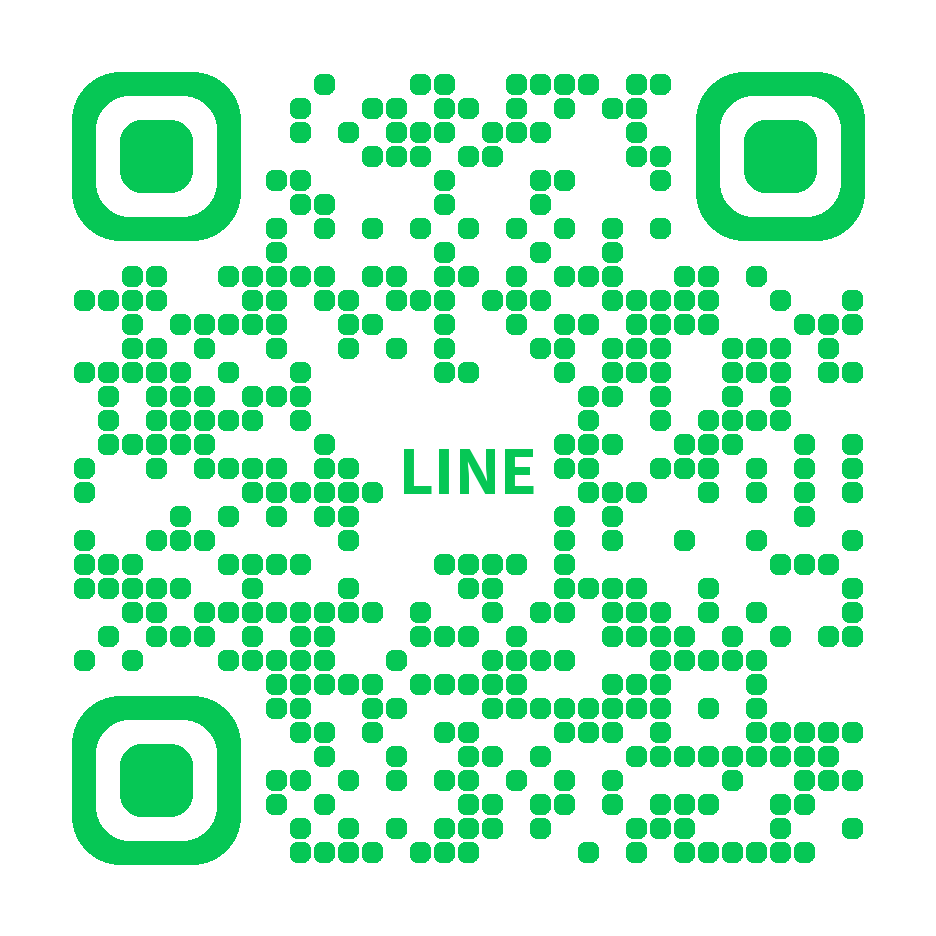
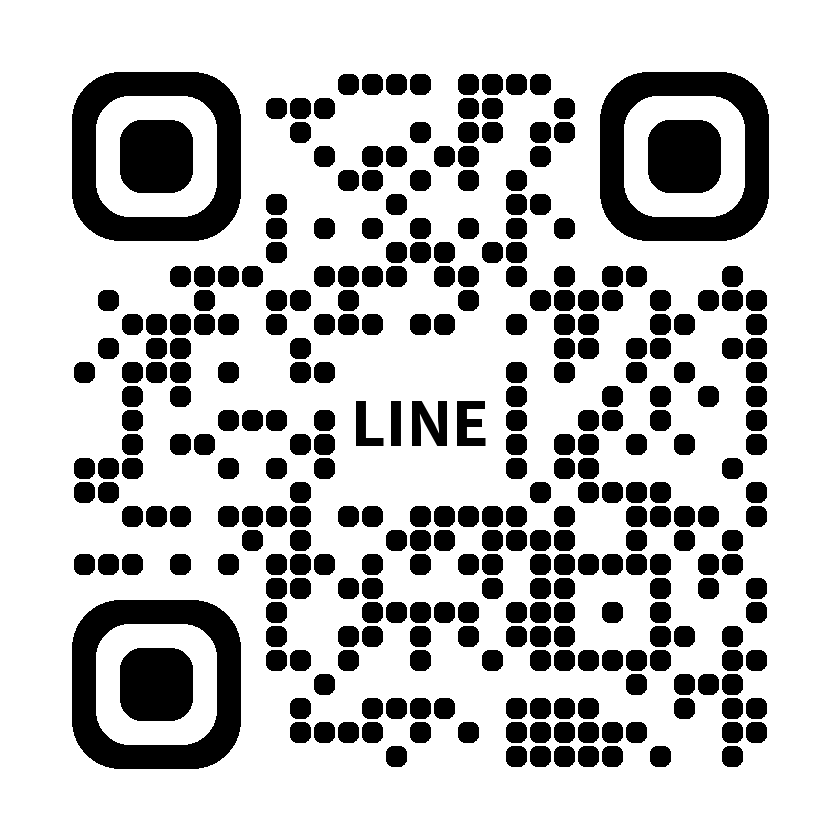
片尾 QR 改用官方短網址、黑色樣式，文字與 QR 拉開距離；完整版 v5
Claude-Session: https://claude.ai/code/session_014HaEPtT7VcVJKA21RmzpAv

diff --git a/tools/line_qr.py b/tools/line_qr.py
@@ -1,8 +1,9 @@
 #!/usr/bin/env python3
-"""產生 LINE 官方樣式的 QR code（綠色圓點、圓角定位框、中央 LINE 字樣、白色圓角底）。
+"""產生 LINE 官方樣式的 QR code（圓點、圓角定位框、中央 LINE 字樣、白色圓角底）。
 
 用法：
-  python3 tools/line_qr.py --id @191cgbjs --font <字型檔> -o assets/line_qr.png
+  python3 tools/line_qr.py --url https://lin.ee/Q2k2s7M --color black --font <字型檔> -o assets/line_qr.png
+  （--url 用 LINE 後台提供的官方短網址；沒有時可改用 --id @帳號）
 """
 import argparse
 import urllib.parse
@@ -10,18 +11,21 @@ import urllib.parse
 import qrcode
 from PIL import Image, ImageDraw, ImageFont
 
-GREEN = (6, 199, 85)
+COLORS = {"green": (6, 199, 85), "black": (0, 0, 0)}
 
 
 def main():
     ap = argparse.ArgumentParser()
-    ap.add_argument("--id", required=True, help="LINE 官方帳號 ID，例如 @191cgbjs")
+    ap.add_argument("--url", help="LINE 官方短網址，例如 https://lin.ee/Q2k2s7M（優先使用）")
+    ap.add_argument("--id", help="LINE 官方帳號 ID，例如 @191cgbjs")
+    ap.add_argument("--color", choices=COLORS, default="black")
     ap.add_argument("--font", required=True)
     ap.add_argument("-o", "--out", required=True)
     ap.add_argument("--box", type=int, default=24, help="每一格的像素")
     args = ap.parse_args()
 
-    url = "https://line.me/R/ti/p/" + urllib.parse.quote(args.id)
+    url = args.url or "https://line.me/R/ti/p/" + urllib.parse.quote(args.id)
+    GREEN = COLORS[args.color]
     q = qrcode.QRCode(error_correction=qrcode.constants.ERROR_CORRECT_H, border=0)
     q.add_data(url)
     q.make(fit=True)

diff --git a/README.md b/README.md
@@ -34,7 +34,7 @@ python3 tools/autoframe.py cuts/seg*.json --src <素材資料夾> --model <yunet
 python3 tools/endcard.py cuts/endcard.json --font <字型資料夾> -o output/endcard.mp4
 
 # LINE 官方樣式 QR code（片尾用）
-python3 tools/line_qr.py --id @191cgbjs --font <字型檔> -o assets/line_qr.png
+python3 tools/line_qr.py --url https://lin.ee/Q2k2s7M --color black --font <字型檔> -o assets/line_qr.png
 
 # 封面（固定版型，每集換 cuts/cover_volXX.json）
 python3 tools/cover.py cuts/cover_vol01.json --src <素材資料夾> --font <字型檔> -o output/cover_vol01.jpg
